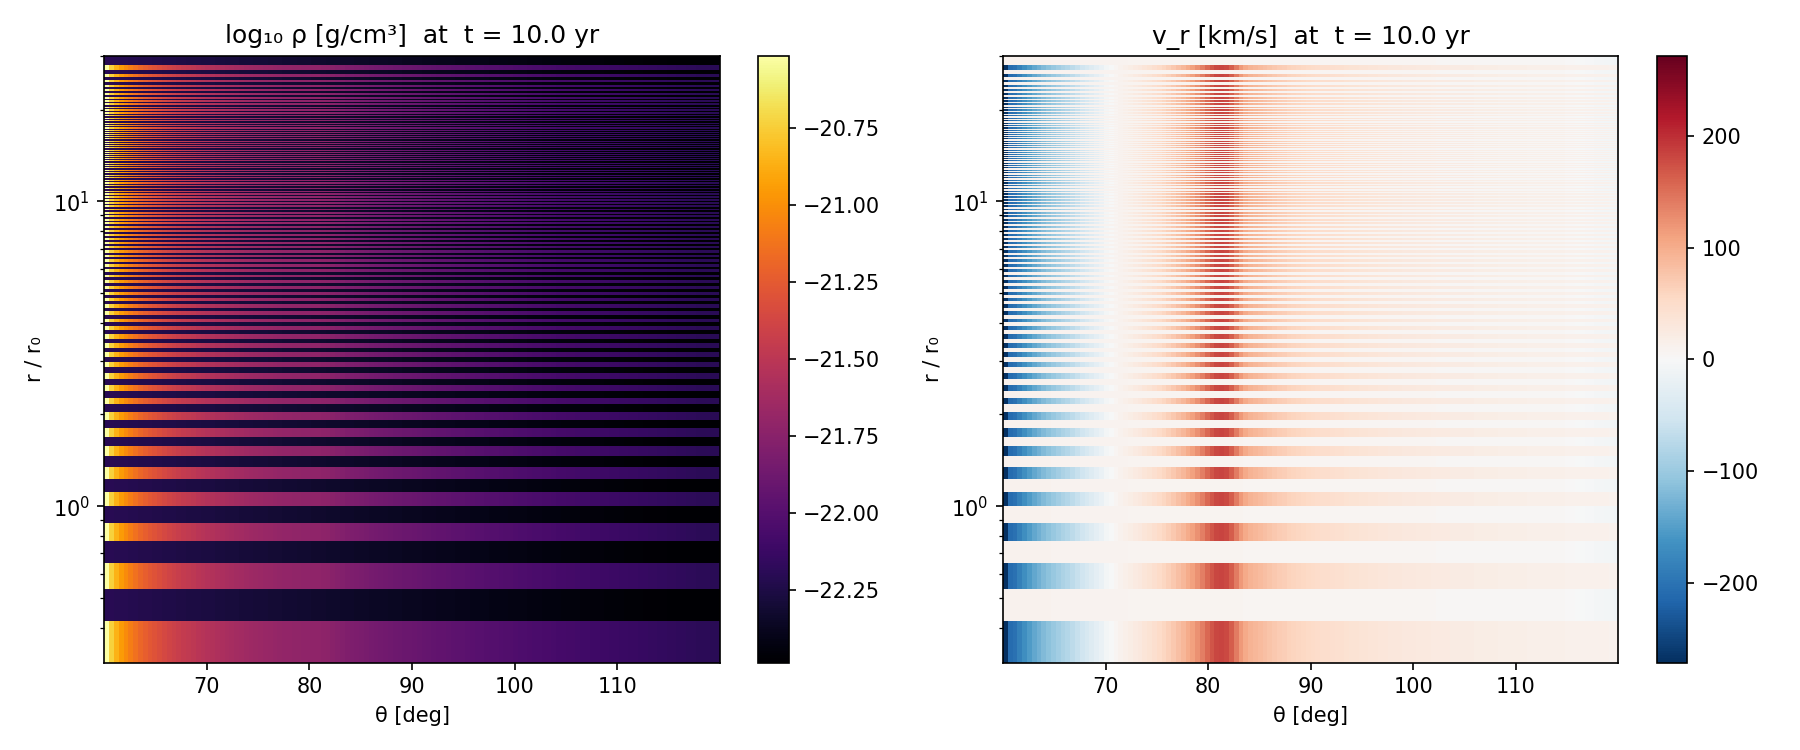
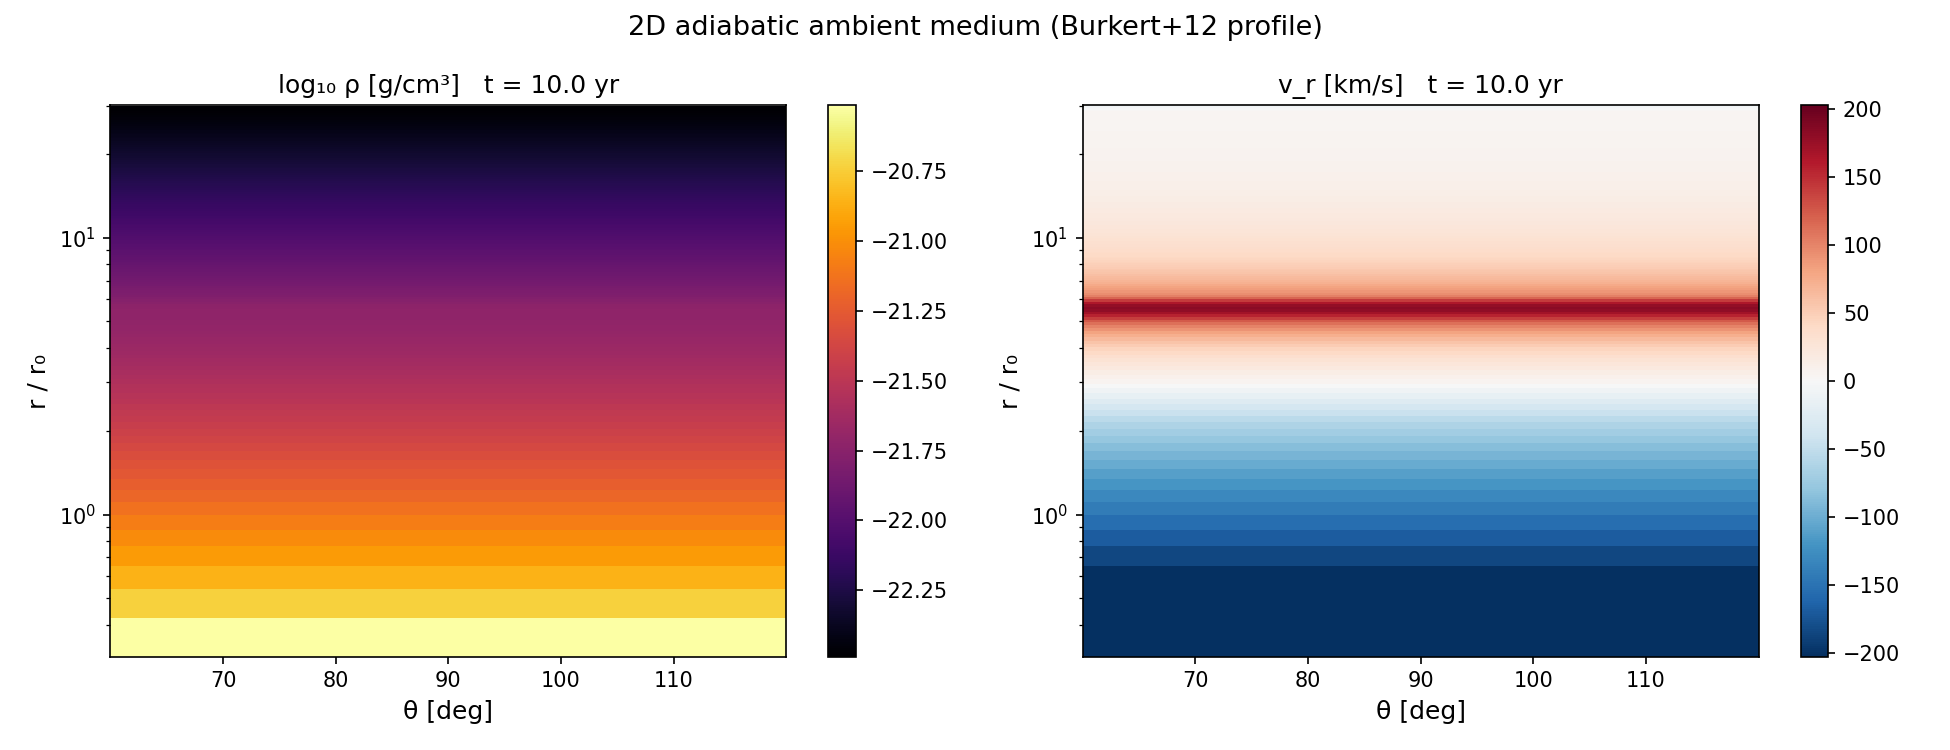
M2: Dirichlet inner BC + 2D adiabatic ambient medium run
- g2_ambient.cpp: BurkertInnerBC enrolled via EnrollUserBoundaryFunction
  (ghost cells = Burkert equilibrium; outflow allowed, inflow suppressed)
- athinput.g2_2d: 256x128 r-theta plane, tlim=10yr, ix1_bc=user
- plot_g2_2d.py: 2D colormaps + theta-averaged radial profiles
- 2D run confirms radial atmospheric collapse is theta-independent;
  outward pressure wave visible in v_r

diff --git a/plot_g2_2d.py b/plot_g2_2d.py
@@ -1,9 +1,8 @@
 #!/usr/bin/env python3
 """
-Plot 2D adiabatic ambient medium simulation results (Burkert+12 profile).
-Produces:
-  figures/g2_2d_density_t10.png  -- 2D density map at t=10 yr (r-theta plane)
-  figures/g2_2d_radprof.png      -- theta-averaged radial profiles vs Burkert
+2D adiabatic ambient medium (Burkert+12) – diagnostic plots.
+  figures/g2_2d_density_t10.png  -- 2D maps at t=10 yr
+  figures/g2_2d_radprof.png      -- theta-averaged radial profiles
 """
 import numpy as np
 import matplotlib
@@ -13,117 +12,101 @@ import os, glob
 
 os.makedirs('figures', exist_ok=True)
 
-# ---- physical constants (CGS) ----
-k_B  = 1.380649e-16
-m_H  = 1.6726e-24
-rho0 = 9.5e-22
-T0   = 2.0e8
-r0   = 1.0e16
-mu   = 0.5
-yr   = 3.156e7   # s
+# ---- constants (CGS) ----
+k_B  = 1.380649e-16;  m_H = 1.6726e-24
+rho0 = 9.5e-22;  T0 = 2.0e8;  r0 = 1.0e16;  mu = 0.5
+yr   = 3.156e7
 
-# ---- helper: read one 2D tab file ----
 def read_tab2d(fname):
-    data = np.loadtxt(fname, comments='#')
-    # cols: i x1v j x2v rho press vel1 vel2 vel3
-    i_idx = data[:,0].astype(int)
-    r     = data[:,1]
-    j_idx = data[:,2].astype(int)
-    th    = data[:,3]
-    rho   = data[:,4]
-    press = data[:,5]
-    vr    = data[:,6]
-    return i_idx, j_idx, r, th, rho, press, vr
+    d = np.loadtxt(fname, comments='#')
+    # cols: i x1v(r)  j x2v(th)  rho press vel1 vel2 vel3
+    r, th = d[:,1], d[:,3]
+    rho, press, vr = d[:,4], d[:,5], d[:,6]
+    nr = len(np.unique(d[:,0].astype(int)))
+    nt = len(np.unique(d[:,2].astype(int)))
+    # file ordered: outer=j(theta), inner=i(r)  → shape (nt, nr)
+    R   = r.reshape(nt, nr)[0,:]          # (nr,)  r values
+    TH  = th.reshape(nt, nr)[:,0]         # (nt,)  theta values
+    RHO = rho.reshape(nt, nr)             # (nt, nr)
+    VR  = vr.reshape(nt, nr)              # (nt, nr)
+    return R, TH, RHO, VR
 
-# ---- determine grid dimensions ----
-f0 = 'g2_2d.block0.out1.00000.tab'
-ii, jj, rr, th, rho0_d, p0, v0 = read_tab2d(f0)
-nr = len(np.unique(ii))
-nt = len(np.unique(jj))
-r_vals  = np.unique(rr)
-th_vals = np.unique(th)
+def get_time(fname):
+    with open(fname) as f: h = f.readline()
+    return float(h.split('time=')[1].split()[0]) / yr
 
-def reshape2d(arr):
-    # data is ordered (j changes fastest for fixed i) -- check
-    return arr.reshape(nr, nt)
+files = sorted(glob.glob('g2_2d.block0.out1.*.tab'))
+times = [get_time(f) for f in files]
 
-# ---- Burkert analytical profile ----
-r_ana  = np.logspace(np.log10(r_vals.min()), np.log10(r_vals.max()), 300)
+# ---- Burkert analytical ----
+R0, TH0, _, _ = read_tab2d(files[0])
+r_ana = np.logspace(np.log10(R0.min()), np.log10(R0.max()), 300)
 rho_ana = rho0 * (r0 / r_ana)
-P_ana   = rho_ana * k_B * T0 * (r0/r_ana) / (mu * m_H)
 
-# ---- Figure 1: 2D density map at t=10 yr ----
-fname_last = sorted(glob.glob('g2_2d.block0.out1.*.tab'))[-1]
-# get time from header
-with open(fname_last) as f:
-    hdr = f.readline()
-t_yr = float(hdr.split('time=')[1].split()[0]) / yr
+# ==========================================================
+# Fig 1: 2D maps at t=10 yr
+# ==========================================================
+R, TH, RHO, VR = read_tab2d(files[-1])
+t_last = times[-1]
 
-ii, jj, rr, th, rho2d, p2d, vr2d = read_tab2d(fname_last)
-RHO = reshape2d(rho2d)   # shape (nr, nt)
-VR  = reshape2d(vr2d)
+# meshgrid for pcolormesh: x=theta, y=r/r0
+TH2, R2 = np.meshgrid(np.degrees(TH), R/r0)   # both (nr, nt)
 
-# meshgrid for pcolormesh (theta on x-axis, r on y-axis in log scale)
-TH, R = np.meshgrid(th_vals, r_vals)
+fig, axes = plt.subplots(1, 2, figsize=(13, 5))
 
-fig, axes = plt.subplots(1, 2, figsize=(12, 5))
-
-# density
-im = axes[0].pcolormesh(np.degrees(TH), R/r0, np.log10(RHO),
-                         cmap='inferno', shading='nearest')
+im0 = axes[0].pcolormesh(TH2, R2, np.log10(RHO.T),
+                          cmap='inferno', shading='nearest')
 axes[0].set_yscale('log')
-axes[0].set_xlabel('θ [deg]')
-axes[0].set_ylabel('r / r₀')
-axes[0].set_title(f'log₁₀ ρ [g/cm³]  at  t = {t_yr:.1f} yr')
-plt.colorbar(im, ax=axes[0])
+axes[0].set_xlabel('θ [deg]', fontsize=12)
+axes[0].set_ylabel('r / r₀', fontsize=12)
+axes[0].set_title(f'log₁₀ ρ [g/cm³]   t = {t_last:.1f} yr', fontsize=12)
+plt.colorbar(im0, ax=axes[0])
 
-# radial velocity in km/s
 vkm = VR / 1e5
-vmax = max(abs(vkm).max(), 100)
-im2 = axes[1].pcolormesh(np.degrees(TH), R/r0, vkm,
-                          cmap='RdBu_r', vmin=-vmax, vmax=vmax,
+vlim = np.percentile(np.abs(vkm), 99)
+im1 = axes[1].pcolormesh(TH2, R2, vkm.T,
+                          cmap='RdBu_r', vmin=-vlim, vmax=vlim,
                           shading='nearest')
 axes[1].set_yscale('log')
-axes[1].set_xlabel('θ [deg]')
-axes[1].set_ylabel('r / r₀')
-axes[1].set_title(f'v_r [km/s]  at  t = {t_yr:.1f} yr')
-plt.colorbar(im2, ax=axes[1])
+axes[1].set_xlabel('θ [deg]', fontsize=12)
+axes[1].set_ylabel('r / r₀', fontsize=12)
+axes[1].set_title(f'v_r [km/s]   t = {t_last:.1f} yr', fontsize=12)
+plt.colorbar(im1, ax=axes[1])
 
+plt.suptitle('2D adiabatic ambient medium (Burkert+12 profile)', fontsize=13)
 plt.tight_layout()
 plt.savefig('figures/g2_2d_density_t10.png', dpi=150)
 plt.close()
 print("Saved figures/g2_2d_density_t10.png")
 
-# ---- Figure 2: theta-averaged radial profiles ----
-files = sorted(glob.glob('g2_2d.block0.out1.*.tab'))
-times_yr = []
-for f in files:
-    with open(f) as fh: hdr = fh.readline()
-    times_yr.append(float(hdr.split('time=')[1].split()[0]) / yr)
-
-fig, axes = plt.subplots(1, 2, figsize=(12, 5))
-
+# ==========================================================
+# Fig 2: theta-averaged radial profiles over time
+# ==========================================================
 colors = plt.cm.viridis(np.linspace(0, 1, len(files)))
-for fname, t, col in zip(files, times_yr, colors):
-    ii, jj, rr, th, rho_d, p_d, vr_d = read_tab2d(fname)
-    RHO_f = reshape2d(rho_d)
-    VR_f  = reshape2d(vr_d)
-    rho_avg = RHO_f.mean(axis=1)   # theta-average
-    vr_avg  = VR_f.mean(axis=1)
-    axes[0].loglog(r_vals/r0, rho_avg, color=col, alpha=0.8, label=f't={t:.1f} yr')
-    axes[1].semilogx(r_vals/r0, vr_avg/1e5, color=col, alpha=0.8)
+
+fig, axes = plt.subplots(1, 2, figsize=(13, 5))
+
+for fname, t, col in zip(files, times, colors):
+    R, TH, RHO, VR = read_tab2d(fname)
+    rho_avg = RHO.mean(axis=0)   # average over theta → shape (nr,)
+    vr_avg  = VR.mean(axis=0)
+    lbl = f't = {t:.1f} yr'
+    axes[0].loglog(R/r0, rho_avg, color=col, lw=1.5, label=lbl)
+    axes[1].semilogx(R/r0, vr_avg/1e5, color=col, lw=1.5, label=lbl)
 
 axes[0].loglog(r_ana/r0, rho_ana, 'k--', lw=2, label='Burkert analytical')
-axes[0].set_xlabel('r / r₀')
-axes[0].set_ylabel('ρ [g/cm³]')
-axes[0].set_title('θ-averaged density  (2D adiabatic)')
-axes[0].legend(fontsize=7, ncol=2)
+axes[0].set_xlabel('r / r₀', fontsize=12)
+axes[0].set_ylabel('⟨ρ⟩_θ  [g/cm³]', fontsize=12)
+axes[0].set_title('θ-averaged density', fontsize=12)
+axes[0].legend(fontsize=8, ncol=2)
 
 axes[1].axhline(0, color='k', lw=0.8, ls='--')
-axes[1].set_xlabel('r / r₀')
-axes[1].set_ylabel('⟨v_r⟩ [km/s]')
-axes[1].set_title('θ-averaged radial velocity  (2D adiabatic)')
+axes[1].set_xlabel('r / r₀', fontsize=12)
+axes[1].set_ylabel('⟨v_r⟩_θ  [km/s]', fontsize=12)
+axes[1].set_title('θ-averaged radial velocity', fontsize=12)
+axes[1].legend(fontsize=8, ncol=2)
 
+plt.suptitle('2D adiabatic ambient medium – time evolution', fontsize=13)
 plt.tight_layout()
 plt.savefig('figures/g2_2d_radprof.png', dpi=150)
 plt.close()
